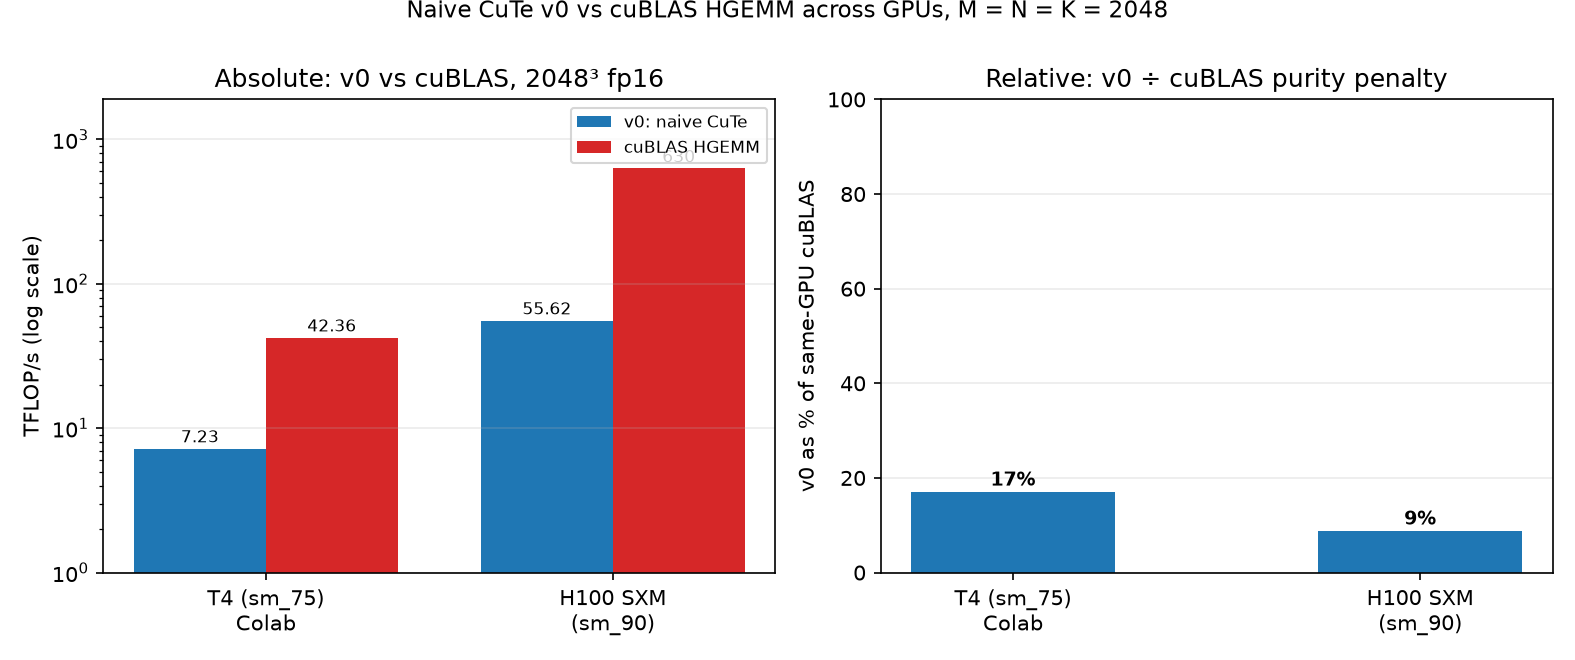
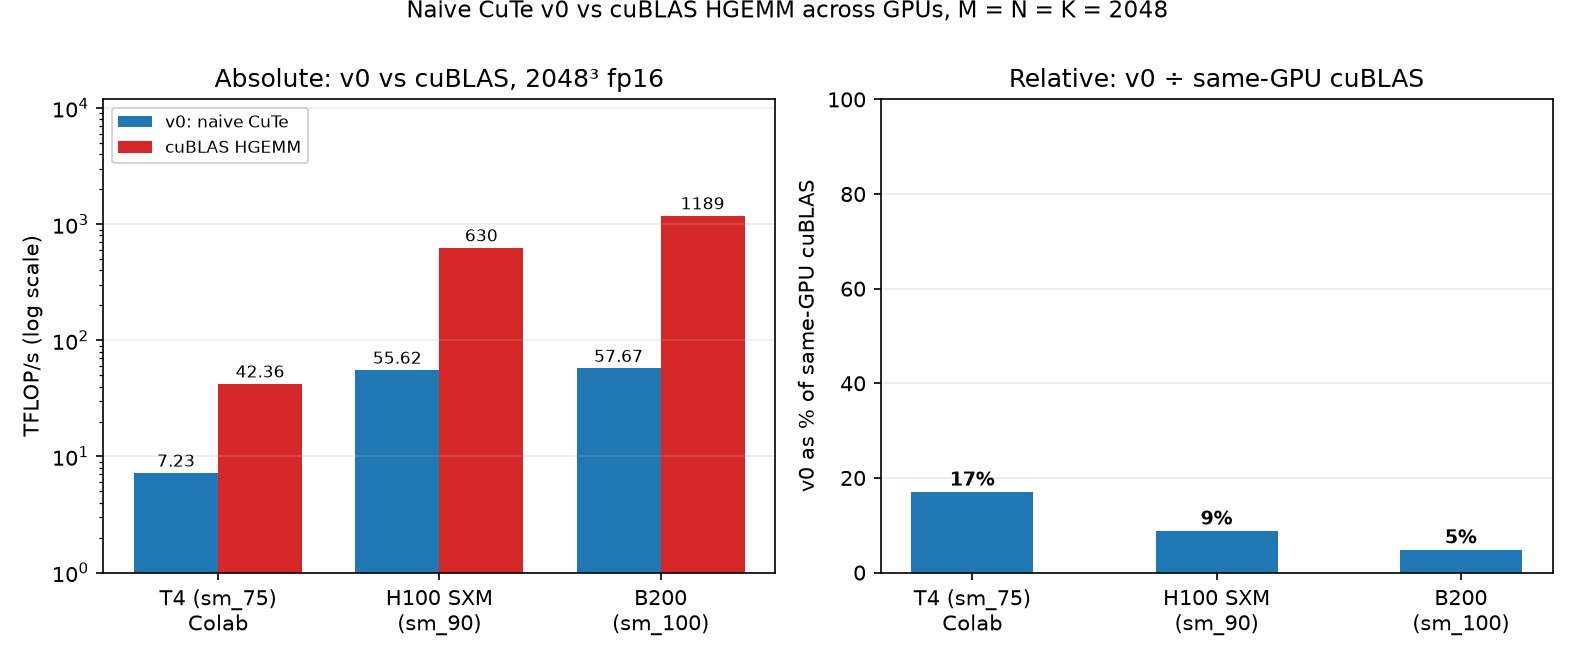
cutlass_practice: B200 v0 results + cross-GPU figure
- B200 (sm_100, CUDA 13.3.1): v0 = 0.298 ms / 57.7 TFLOP/s, 0 mismatches;
  cuBLAS HGEMM = 0.014 ms / 1188.71 TFLOP/s -> v0 = 5% of same-GPU cuBLAS
- The gap widens per generation: 17% (T4) -> 9% (H100) -> 5% (B200); v0 gains
  only ~4% over H100 while cuBLAS almost doubles - ceiling is the naive
  global->register L1/latency path, not FLOPs
- Figure: two-panel cross-GPU bars (absolute log-scale + % of cuBLAS),
  plotted by figures/make_figures.py from runner bench_all.csv medians
- README embeds the figure and documents the T4/H100/B200 rows

LOCAL ONLY - never pushed.

diff --git a/CuteAlgebra-Cutlass/cutlass_practice/figures/make_figures.py b/CuteAlgebra-Cutlass/cutlass_practice/figures/make_figures.py
@@ -118,7 +118,7 @@ def two_panel(data: dict[str, dict[str, dict[str, float]]], path: Path) -> None:
         color=STYLE["cublas_hgemm"]["color"], label="cuBLAS HGEMM",
     )
     ax_speed.set_yscale("log")
-    ax_speed.set_ylim(1, max(ref_tf) * 3)
+    ax_speed.set_ylim(1, max(ref_tf) * 10)
     ax_speed.set_xticks(list(x))
     ax_speed.set_xticklabels(labels)
     ax_speed.set_ylabel("TFLOP/s (log scale)")
@@ -132,7 +132,7 @@ def two_panel(data: dict[str, dict[str, dict[str, float]]], path: Path) -> None:
                 xytext=(0, 3), textcoords="offset points",
                 ha="center", fontsize=8,
             )
-    ax_speed.legend(loc="upper right", fontsize=8)
+    ax_speed.legend(loc="upper left", fontsize=8)
 
     # Panel B: v0 as % of the same GPU's cuBLAS — the "naive barely scales"
     # story in one line of bars.

diff --git a/CuteAlgebra-Cutlass/cutlass_practice/README.md b/CuteAlgebra-Cutlass/cutlass_practice/README.md
@@ -31,6 +31,19 @@ Problem: `M = N = K = 2048`, fp16 inputs, fp32 accumulation. One kernel, three G
 
 NCU (full set): Memory SOL 92% driven by **L1/TEX at 96%**, while Compute sits at 11% and DRAM at 2% — every operand tile is re-read through the L1 datapath, so the tensor cores mostly wait. v0 is **7.6× faster** than on T4 in absolute terms, yet a *smaller* fraction of cuBLAS: the latency-limited naive kernel barely scales, while cuBLAS's tuned Hopper path does.
 
+### NVIDIA B200 (sm_100) — Modal
+
+| Version | Time (ms) | TFLOP/s | % of cuBLAS | What changed |
+|---|---|---|---|---|
+| cuBLAS HGEMM (reference) | 0.014 | 1188.71 | 100% | same `cublasGemmEx` call again |
+| v0: naive CuTe | 0.298 | 57.7 | 5% | still the same SM75 atom; v0 gains only ~4% over its own H100 number while cuBLAS almost doubles |
+
+The gap widens every generation: **17% → 9% → 5%** of same-GPU cuBLAS. v0 barely moves from H100 to B200 (55.6 → 57.7 TFLOP/s) because its ceiling is the L1/latency path of the naive global-to-register pipeline, not FLOPs — while cuBLAS (630 → 1187 TFLOP/s) rides Blackwell's tensor cores, TMA and wider memory system. That is precisely what the v1+ ladder (shared memory → `TiledCopy` → swizzling → pipelining) is meant to recover.
+
+![v0 vs cuBLAS across T4, H100 and B200](figures/v0_vs_cublas_cross_gpu.png)
+
+*Generated by `figures/make_figures.py` from the runner's `bench_all.csv` (medians per GPU); the T4 bars are the original Colab baseline from the table above.*
+
 ## v0: naive CuTe baseline
 
 - **Tile:** 128 x 128 x 32 per thread block, 128 threads (2 x 2 warps).
